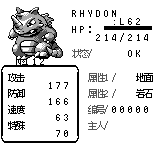
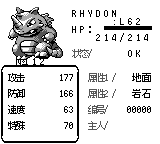
fix(ui): 图鉴页中文数值像素级右对齐
zh page-1 数值不再走 v2 tile 路径（每字符占满 8px tile，align=right
只能落在整 tile 上，CJK 类型名与 ASCII 编号右缘参差）：

- 左侧面板：攻击/防御/速度/特殊数值与中文标签同行，墨迹右缘统一
  锚定 px 72（面板边框内侧）；EN 保持原有堆叠布局（逐像素无变化）
- 右列：属性/编号/主人数值统一锚定 px 152，共享一条冲齐右缘
- 经 FrameBufferPainter 的 draw_text_px 像素路径绘制（与主菜单
  CONTINUE 信息框同一机制），draw_values_flush_right 导出供回归
  测试锁定锚点

diff --git a/crates/pokered-ui/tests/stats_right_column.rs b/crates/pokered-ui/tests/stats_right_column.rs
@@ -1,17 +1,23 @@
 //! Regression: the stats page-1 right column (types / ID № / OT) renders in
-//! both languages.
+//! both languages, and the zh values share one flush right edge.
 //!
-//! Locks two behaviors at once:
+//! Locks three behaviors at once:
 //!
 //! 1. v2 `container` elements must declare `layout` + `clip` — `ElementParams`
 //!    is an untagged enum and a group without those fields deserializes as
 //!    `Border`, silently dropping every child.
-//! 2. The zh variant places each value beside (not below) its label, because
-//!    CJK glyphs are taller than one tile row; this asserts the zh column
-//!    actually produces glyphs.
+//! 2. The zh variant places its values beside (not below) their labels — CJK
+//!    glyphs are taller than one tile row — and those values are NOT drawn by
+//!    the v2 tile path: it advances a full 8 px tile per character, so
+//!    tile-snapped `align = "right"` leaves CJK names and ASCII digits with
+//!    ragged right edges. `menus::stats` draws them through the painter's
+//!    pixel path instead.
+//! 3. `draw_values_flush_right` anchors each value's ink right edge exactly
+//!    on its target px.
 
 use pokered_core::game_state::Lang;
 use pokered_data::ui_layout::schema::get_screen_v2_json;
+use pokered_ui::menus::stats::{draw_values_flush_right, ZH_RIGHT_COL_RIGHT_PX, ZH_STATS_RIGHT_PX};
 use pokered_ui::v2::{self, DataContext};
 use pokered_ui::{Painter, Rgba, TilePos, TileRect};
 
@@ -34,6 +40,29 @@ impl Painter for Recorder {
     }
     fn draw_pixel_rect(&mut self, _px: u32, _py: u32, _pw: u32, _ph: u32, _color: Rgba) {}
     fn draw_gb_tile(&mut self, _pos: TilePos, _tile_id: u8, _fallback: &str, _color: Rgba) {}
+}
+
+/// Stands in for the framebuffer painter's pixel path: proportional metrics
+/// (5 px ASCII / 10 px CJK), so an anchor computed from tile counts (8 px per
+/// char) fails the flush-edge assertion.
+#[derive(Default)]
+struct PxRecorder {
+    placed: Vec<(u32, u32, String)>,
+}
+
+impl Painter for PxRecorder {
+    fn clear(&mut self, _color: Rgba) {}
+    fn draw_text_box(&mut self, _rect: TileRect, _color: Rgba) {}
+    fn draw_text(&mut self, _pos: TilePos, _text: &str, _color: Rgba) {}
+    fn draw_glyph(&mut self, _pos: TilePos, _glyph: char, _color: Rgba) {}
+    fn draw_pixel_rect(&mut self, _px: u32, _py: u32, _pw: u32, _ph: u32, _color: Rgba) {}
+    fn draw_gb_tile(&mut self, _pos: TilePos, _tile_id: u8, _fallback: &str, _color: Rgba) {}
+    fn measure_text_px(&self, text: &str) -> u32 {
+        text.chars().map(|c| if c.is_ascii() { 5 } else { 10 }).sum()
+    }
+    fn draw_text_px(&mut self, px: u32, py: u32, text: &str, _color: Rgba) {
+        self.placed.push((px, py, text.to_string()));
+    }
 }
 
 fn probe_ctx(lang: Lang) -> DataContext {
@@ -70,15 +99,17 @@ fn right_column_glyphs(lang: Lang) -> Vec<(TilePos, char)> {
 }
 
 #[test]
-fn zh_right_column_renders_labels_and_values() {
+fn zh_right_column_renders_labels_via_tile_path_only() {
     let glyphs = right_column_glyphs(Lang::Zh);
     let text: String = glyphs.iter().map(|(_, c)| *c).collect();
-    // zh labels come from the layout's @t values; values come from the ctx.
+    // zh labels come from the layout's @t values.
     assert!(text.contains('属'), "属性1/ label missing: {text}");
-    assert!(text.contains('地'), "type1 value missing: {text}");
     assert!(text.contains('编'), "编号/ label missing: {text}");
     assert!(text.contains('主'), "主人/ label missing: {text}");
-    assert!(text.contains('4'), "id digits missing: {text}");
+    // Values left the tile path — they are pixel-drawn by menus::stats, and a
+    // tile-path value here would double-draw over them.
+    assert!(!text.contains('地'), "type value must not use the tile path: {text}");
+    assert!(!text.contains('0'), "id digits must not use the tile path: {text}");
 }
 
 #[test]
@@ -89,4 +120,27 @@ fn en_right_column_renders_labels_and_values() {
     assert!(text.contains("04362"), "id value missing: {text}");
     assert!(text.contains("OT/"), "OT/ label missing: {text}");
     assert!(text.contains("RED"), "ot value missing: {text}");
+}
+
+#[test]
+fn zh_values_anchor_flush_on_their_right_edges() {
+    let rows = vec![
+        (9u32, ZH_STATS_RIGHT_PX, "177".to_string()),
+        (11, ZH_STATS_RIGHT_PX, "63".to_string()),
+        (9, ZH_RIGHT_COL_RIGHT_PX, "地面".to_string()),
+        (13, ZH_RIGHT_COL_RIGHT_PX, "04362".to_string()),
+        (15, ZH_RIGHT_COL_RIGHT_PX, "RED".to_string()),
+    ];
+    let mut rec = PxRecorder::default();
+    draw_values_flush_right(&mut rec, &rows);
+    assert_eq!(rec.placed.len(), rows.len(), "every row must be placed");
+    for ((ty, right_px, text), (px, py, placed)) in rows.iter().zip(&rec.placed) {
+        assert_eq!(placed, text);
+        assert_eq!(*py, ty * 8, "value {placed:?} on tile row {ty}");
+        assert_eq!(
+            px + rec.measure_text_px(placed),
+            *right_px,
+            "value {placed:?} ink must end at px {right_px}"
+        );
+    }
 }

diff --git a/crates/pokered-ui/src/menus/stats.rs b/crates/pokered-ui/src/menus/stats.rs
@@ -67,20 +67,20 @@ fn draw_page1_v2<P: Painter>(
     ctx.set("defense", mon.defense as i64);
     ctx.set("speed", mon.speed as i64);
     ctx.set("special", mon.special as i64);
-    ctx.set("type1", lang_data::type_name(mon.type1, is_zh));
+    let type1_name = lang_data::type_name(mon.type1, is_zh);
+    ctx.set("type1", type1_name);
     // The original only shows TYPE2 when it differs from TYPE1.
-    ctx.set(
-        "type2",
-        if mon.type1 != mon.type2 {
-            lang_data::type_name(mon.type2, is_zh)
-        } else {
-            ""
-        },
-    );
+    let type2_name = if mon.type1 != mon.type2 {
+        lang_data::type_name(mon.type2, is_zh)
+    } else {
+        ""
+    };
+    ctx.set("type2", type2_name);
     // Trainer ID № / OT name for the right column.
     ctx.set("id", mon.ot_id as i64);
     let mut ot_buf = [0u8; pokered_core::battle::state::NAME_TEXT_BUF];
-    ctx.set("ot", pokered_core::battle::state::decode_name(&mon.ot_name, &mut ot_buf));
+    let ot_name = pokered_core::battle::state::decode_name(&mon.ot_name, &mut ot_buf);
+    ctx.set("ot", ot_name);
     // Visibility keys the layout uses to pick the right-column arrangement:
     // CJK glyphs are taller than one tile row, so the zh variant cannot stack
     // values under labels the way the Latin layout does.
@@ -89,6 +89,41 @@ fn draw_page1_v2<P: Painter>(
     ctx.set("__lang", v2::lang_code(lang));
 
     v2::render_screen(&layout, &ctx, ui.painter());
+
+    // zh page-1 numbers bypass the v2 tile path: it advances one full 8 px
+    // tile per character, so tile-snapped `align = "right"` leaves CJK type
+    // names, the 5-digit ID and the OT name with ragged right edges. The
+    // painter's pixel path gives them all one flush edge (same technique as
+    // the CONTINUE box in menus/main.rs).
+    if is_zh {
+        let rows: [(u32, u32, String); 8] = [
+            (9, ZH_STATS_RIGHT_PX, mon.attack.to_string()),
+            (11, ZH_STATS_RIGHT_PX, mon.defense.to_string()),
+            (13, ZH_STATS_RIGHT_PX, mon.speed.to_string()),
+            (15, ZH_STATS_RIGHT_PX, mon.special.to_string()),
+            (9, ZH_RIGHT_COL_RIGHT_PX, type1_name.to_string()),
+            (11, ZH_RIGHT_COL_RIGHT_PX, type2_name.to_string()),
+            (13, ZH_RIGHT_COL_RIGHT_PX, format!("{:05}", mon.ot_id)),
+            (15, ZH_RIGHT_COL_RIGHT_PX, ot_name.to_string()),
+        ];
+        draw_values_flush_right(ui.painter(), &rows);
+    }
+}
+
+/// zh page-1 right-alignment targets (ink right edge in px): the left stats
+/// box's border tile starts at px 72, and the open right column ends one
+/// tile short of the screen edge at px 152.
+pub const ZH_STATS_RIGHT_PX: u32 = 74;
+pub const ZH_RIGHT_COL_RIGHT_PX: u32 = 152;
+
+/// Draws each `(tile row, right-edge px, text)` value through the painter's
+/// pixel path so its ink ends exactly at `right_px`. Public for the
+/// alignment regression test.
+pub fn draw_values_flush_right<P: Painter>(painter: &mut P, rows: &[(u32, u32, String)]) {
+    for (ty, right_px, text) in rows {
+        let px = right_px.saturating_sub(painter.measure_text_px(text));
+        painter.draw_text_px(px, ty * 8, text, InkColor::Black.into());
+    }
 }
 
 fn draw_page2<P: Painter>(
